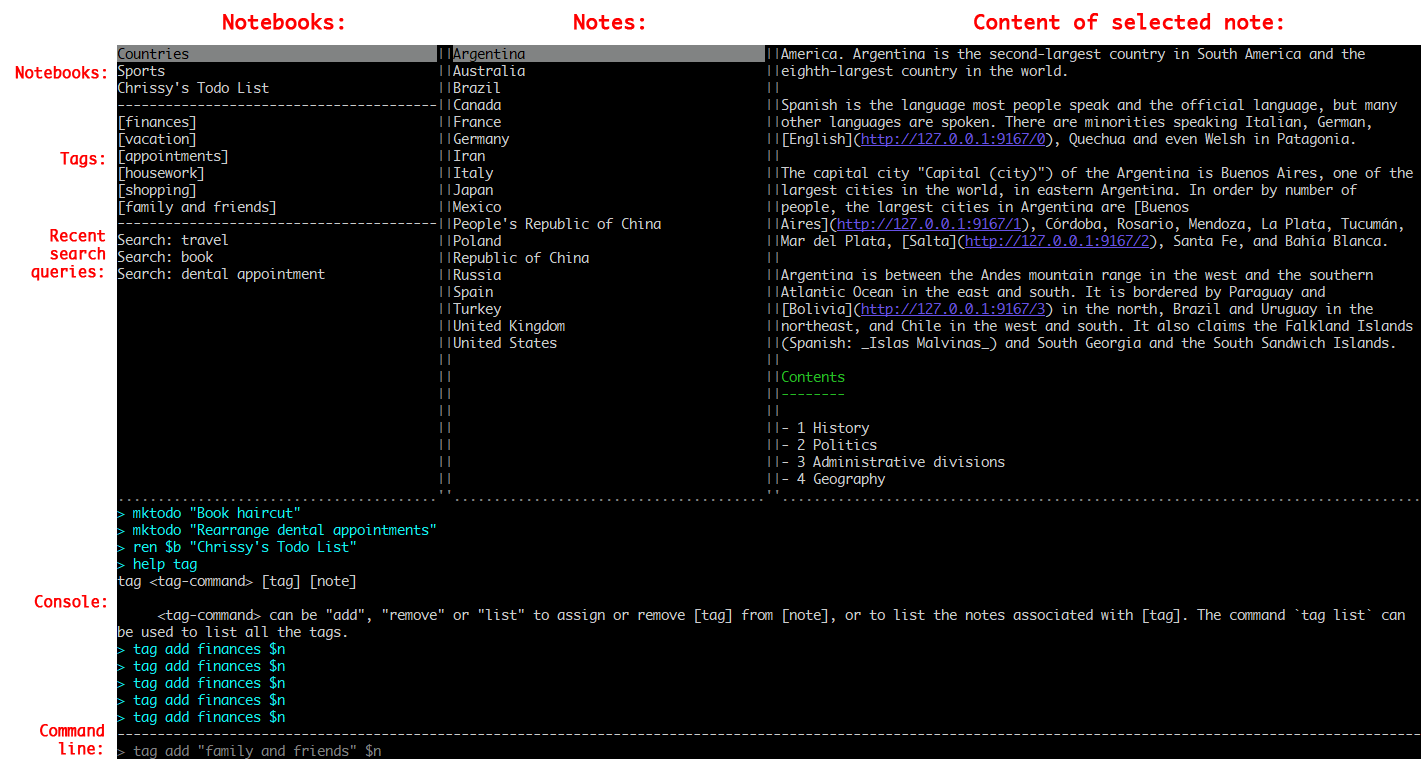
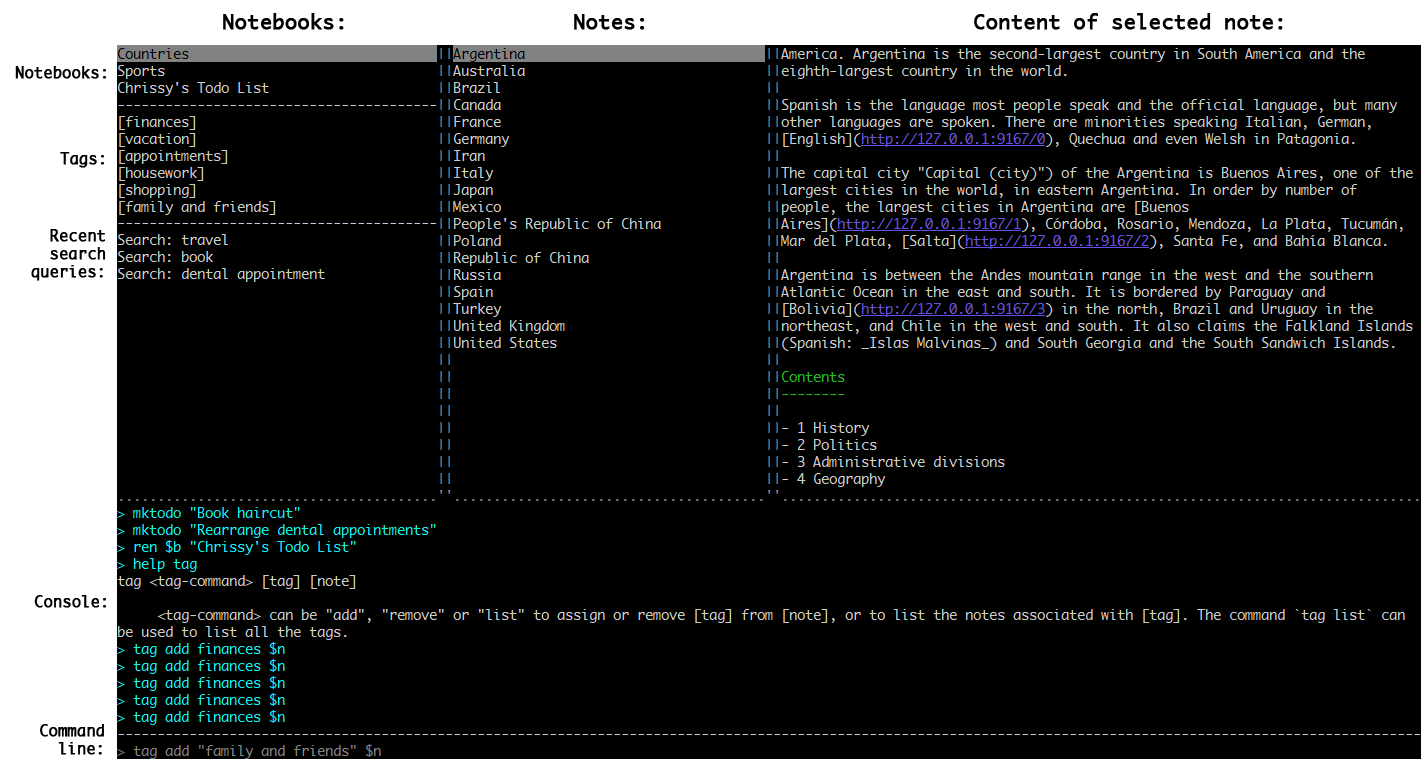
Doc update and Android releas

diff --git a/CliClient/app/command-export.js b/CliClient/app/command-export.js
@@ -9,11 +9,13 @@ import fs from 'fs-extra';
 
 class Command extends BaseCommand {
     usage() {
-        return 'export <destination>';
+        return 'export <directory>';
     }
 
     description() {
-        return _('Exports Joplin data to the given target.');
+        return _(
+            'Exports Joplin data to the given directory. By default, it will export the complete database including notebooks, notes, tags and resources.'
+        );
     }
 
     options() {
@@ -25,7 +27,7 @@ class Command extends BaseCommand {
 
     async action(args) {
         let exportOptions = {};
-        exportOptions.destDir = args.destination;
+        exportOptions.destDir = args.directory;
         exportOptions.writeFile = (filePath, data) => {
             return fs.writeFile(filePath, data);
         };

diff --git a/CliClient/app/app-gui.js b/CliClient/app/app-gui.js
@@ -281,13 +281,13 @@ class AppGui {
 
         shortcuts['TAB'] = {
             friendlyName: 'Tab',
-            description: _('Give focus to next widget'),
+            description: _('Give focus to next pane'),
             isDocOnly: true
         };
 
         shortcuts['SHIFT_TAB'] = {
             friendlyName: 'Shift+Tab',
-            description: _('Give focus to previous widget'),
+            description: _('Give focus to previous pane'),
             isDocOnly: true
         };
 

diff --git a/README.md b/README.md
@@ -41,7 +41,7 @@ To start it, type `demo-joplin`.
 
 To start the application type `joplin`. This will open the user interface, which has three main panes: Notebooks, Notes and the text of the current note. There are also additional panels that can be toggled on and off via [shortcuts](#available-shortcuts).
 
-<img src="https://github.com/wittaya698/joplin-clone/blob/dev/docs/images/ScreenshotTerminalCaptions.png" height="400px">
+<img src="https://github.com/wittaya698/joplin-clone/blob/dev/docs/images/ScreenshotTerminalCaptions.png" height="450px">
 
 ## Input modes
 
@@ -160,10 +160,10 @@ This translation will apply to both the terminal and the Android application.
 
 # Available shortcuts
 
-There are two types of shortcuts: those that manipulate the user interface directly, such as `TAB` to move from one widget to another, and those that are simply shortcuts to actual commands. In a way similar to Vim, these commands are generally a verb followed by an object. For example, typing `mn` ([m]ake [n]ote), is used to create a new note: it will switch the interface to command line mode and pre-fill it with `mknote ""` from where the title of the note can be entered. See below for the full list of shortcuts:
+There are two types of shortcuts: those that manipulate the user interface directly, such as `TAB` to move from one pane to another, and those that are simply shortcuts to actual commands. In a way similar to Vim, these shortcuts are generally a verb followed by an object. For example, typing `mn` ([m]ake [n]ote), is used to create a new note: it will switch the interface to command line mode and pre-fill it with `mknote ""` from where the title of the note can be entered. See below for the full list of shortcuts:
 
-    Tab       Give focus to next widget
-    Shift+Tab Give focus to previous widget
+    Tab       Give focus to next pane
+    Shift+Tab Give focus to previous pane
     :         Enter command line mode
     ESC       Exit command line mode
     Ctrl+C    Cancel the current command.
